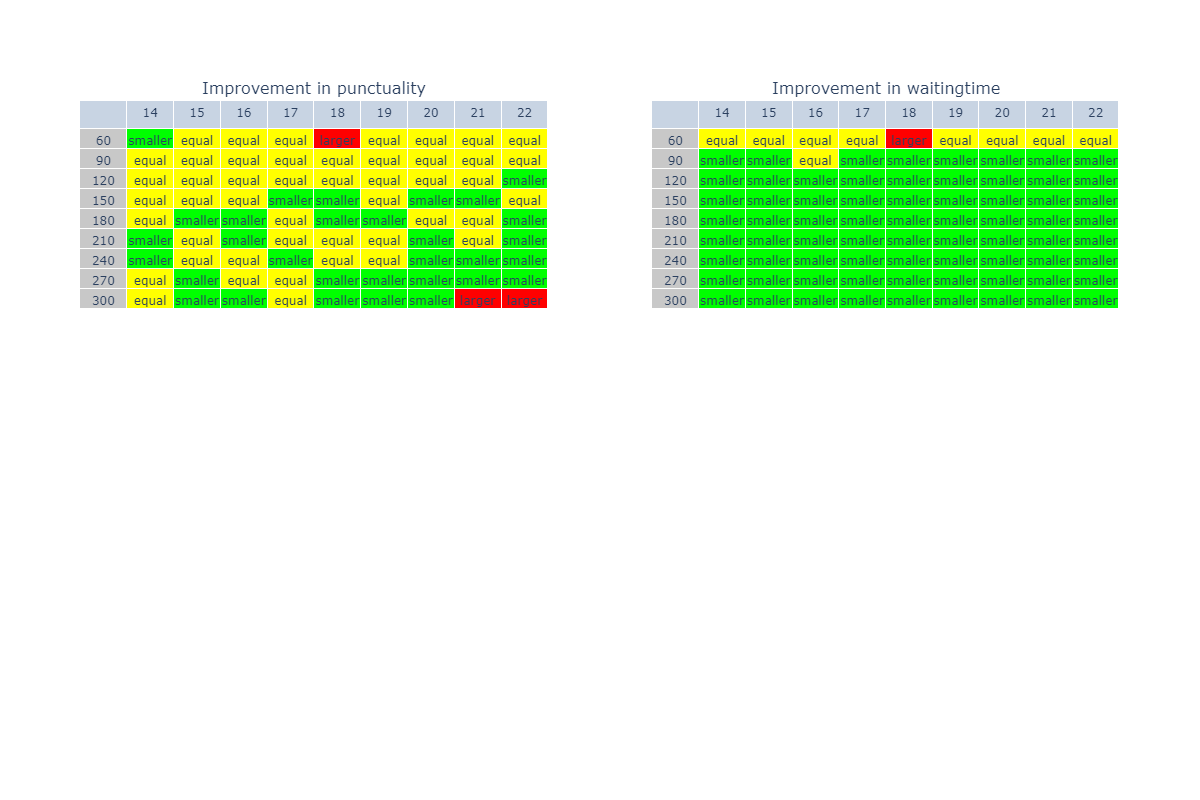
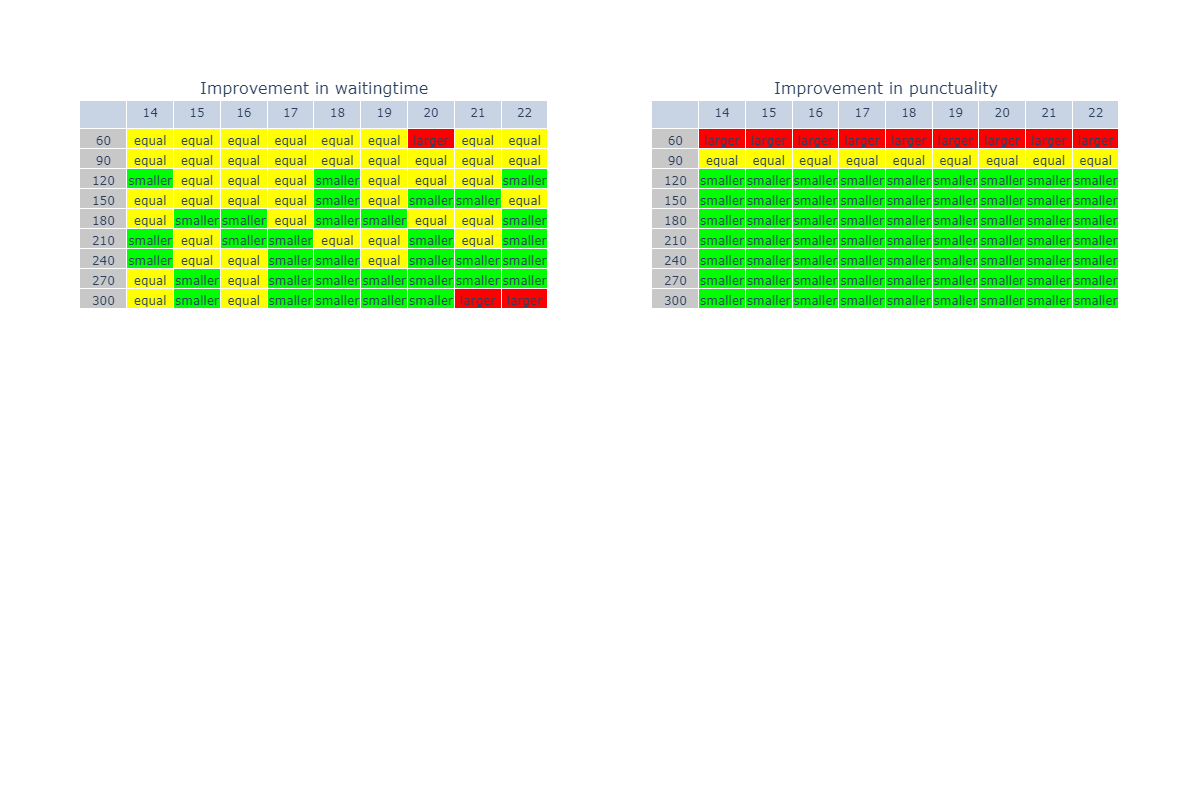
More tables

diff --git a/Python data analysis/research_question_.one.py b/Python data analysis/research_question_.one.py
@@ -70,51 +70,51 @@ for subdir, dirs, files in os.walk(target_folder):
         results_c0[idx][(f,uc,q)] = table.columns[columns[0][0]]
         results_c1[idx][(f,uc,q)] = table.columns[columns[1][0]]
 
-def t_test(a,b, alpha):
-    N, df = len(a), len(a) - 1
-    zipped = zip(a, b)
-    diff = list(map(lambda t: t[0] - t[1], zipped))
-    a_mean, b_mean, diff_mean = np.mean(a), np.mean(b), np.mean(diff)
-    a_std, b_std, diff_std = np.std(a), np.std(b), np.std(diff)
-    t_critical = st.t.ppf(1 - (alpha / 2), df)
-    stat = diff_std / np.sqrt(N)
-    value = t_critical * stat
-    interval = (diff_mean - value, diff_mean + value)
-    t_obs = diff_mean / stat
-    p_value = (1 - st.t.cdf(np.abs(t_obs), df=df)) * 2
-    return (interval, p_value < alpha)
+# def t_test(a,b, alpha):
+#     N, df = len(a), len(a) - 1
+#     zipped = zip(a, b)
+#     diff = list(map(lambda t: t[0] - t[1], zipped))
+#     a_mean, b_mean, diff_mean = np.mean(a), np.mean(b), np.mean(diff)
+#     a_std, b_std, diff_std = np.std(a), np.std(b), np.std(diff)
+#     t_critical = st.t.ppf(1 - (alpha / 2), df)
+#     stat = diff_std / np.sqrt(N)
+#     value = t_critical * stat
+#     interval = (diff_mean - value, diff_mean + value)
+#     t_obs = diff_mean / stat
+#     p_value = (1 - st.t.cdf(np.abs(t_obs), df=df)) * 2
+#     return (interval, p_value < alpha)
 
 
-table_c0 = table_array_for('f','q')
-table_c1 = table_array_for('f','q')
-colors_c0 = table_array_for('f','q')
-colors_c1 = table_array_for('f','q')
-col_dict = dict()
-col_dict["larger"] = 'rgb(255,0,0)'
-col_dict["equal"] = 'rgb(255,255,0)'
-col_dict["smaller"] = 'rgb(0,255,0)'
+# table_c0 = table_array_for('f','q')
+# table_c1 = table_array_for('f','q')
+# colors_c0 = table_array_for('f','q')
+# colors_c1 = table_array_for('f','q')
+# col_dict = dict()
+# col_dict["larger"] = 'rgb(255,0,0)'
+# col_dict["equal"] = 'rgb(255,255,0)'
+# col_dict["smaller"] = 'rgb(0,255,0)'
 
-for idx_f, f in enumerate(param['f']):
-    for idx_q, q in enumerate(param['q']):
-        table_c0[idx_f][idx_q] = stats_analyse.relation(t_test(results_c0[0][(f,True,q)],results_c0[0][(f,False,q)],0.05)[0])
-        table_c1[idx_f][idx_q] = stats_analyse.relation(t_test(results_c1[0][(f,True,q)],results_c1[0][(f,False,q)],0.05)[0])
-        colors_c0[idx_f][idx_q] = col_dict[table_c0[idx_f][idx_q]]
-        colors_c1[idx_f][idx_q] = col_dict[table_c1[idx_f][idx_q]]
+# for idx_f, f in enumerate(param['f']):
+#     for idx_q, q in enumerate(param['q']):
+#         table_c0[idx_f][idx_q] = stats_analyse.relation(t_test(results_c0[0][(f,True,q)],results_c0[0][(f,False,q)],0.05)[0])
+#         table_c1[idx_f][idx_q] = stats_analyse.relation(t_test(results_c1[0][(f,True,q)],results_c1[0][(f,False,q)],0.05)[0])
+#         colors_c0[idx_f][idx_q] = col_dict[table_c0[idx_f][idx_q]]
+#         colors_c1[idx_f][idx_q] = col_dict[table_c1[idx_f][idx_q]]
 
-t1= make_table('f','q',table_c0,colors_c0)
-t2= make_table('f','q',table_c1,colors_c1)
+# t1= make_table('f','q',table_c0,colors_c0)
+# t2= make_table('f','q',table_c1,colors_c1)
 
-fig = make_subplots(
-    rows=1, 
-    cols=2,
-    specs=[[{"type": "domain"}, {"type": "domain"}]],
-    subplot_titles=["Improvement in punctuality", "Improvement in waitingtime"])
+# fig = make_subplots(
+#     rows=1, 
+#     cols=2,
+#     specs=[[{"type": "domain"}, {"type": "domain"}]],
+#     subplot_titles=["Improvement in waitingtime", "Improvement in punctuality"])
 
-fig.add_trace(t1, row=1, col=1)
-fig.add_trace(t2, row=1, col=2)
+# fig.add_trace(t1, row=1, col=1)
+# fig.add_trace(t2, row=1, col=2)
 
-fig.update_layout(width=1200, height=800)
-fig.show()
+# fig.update_layout(width=1200, height=800)
+# fig.show()
 
 
 
@@ -123,47 +123,47 @@ fig.show()
 ###############################
 
 
-# def build_table(uc_switch, val_idx):
-#     table = table_array_for('f','q')
-#     for k,v in results[0].items():
-#         (f,uc,q) = k
-#         if (uc_switch and uc) or (not uc_switch and not uc) :
-#             table[param['f'].index(f)][param['q'].index(q)] = round(v[val_idx][1],2)
+def build_table(uc_switch, val_idx):
+    table = table_array_for('f','q')
+    for k,v in results[0].items():
+        (f,uc,q) = k
+        if (uc_switch and uc) or (not uc_switch and not uc) :
+            table[param['f'].index(f)][param['q'].index(q)] = round(v[val_idx][1],2)
 
-#     min_val = pow(2,31) - 1
-#     max_val = 0
-#     for row in table:
-#         if min(row) < min_val:
-#             min_val = min(row)
-#         if max(row) > max_val:
-#             max_val = max(row)
-#     diff = max_val-min_val
+    min_val = pow(2,31) - 1
+    max_val = 0
+    for row in table:
+        if min(row) < min_val:
+            min_val = min(row)
+        if max(row) > max_val:
+            max_val = max(row)
+    diff = max_val-min_val
 
-#     cs = n_colors('rgb(0, 255, 0)', 'rgb(255, 0, 0)', int(diff) +1, colortype='rgb')
-#     colors = []
-#     for row in table:
-#         c_row = []
-#         for cell in row:
-#             c_row.append(cs[int(cell-min_val)])
-#         colors.append(c_row)
+    cs = n_colors('rgb(0, 255, 0)', 'rgb(255, 0, 0)', int(diff) +1, colortype='rgb')
+    colors = []
+    for row in table:
+        c_row = []
+        for cell in row:
+            c_row.append(cs[int(cell-min_val)])
+        colors.append(c_row)
     
-#     return make_table('f','q',table,colors)
+    return make_table('f','q',table,colors)
 
-# names = []
-# for uc_switch in range(2):
-#     for v in range(2):
-#         names.append(f'UC Switch: {bool(uc_switch)} - {"Average Wait Time (s)" if v == 0 else "Punctuality"}')
+names = []
+for uc_switch in range(2):
+    for v in range(2):
+        names.append(f'UC Switch: {bool(uc_switch)} - {"Average Wait Time (s)" if v == 0 else "Punctuality"}')
 
-# fig = make_subplots(
-#     rows=2, 
-#     cols=2,
-#     specs=[[{"type": "domain"}, {"type": "domain"}],
-#            [{"type": "domain"}, {"type": "domain"}]],
-#     subplot_titles=names)
+fig = make_subplots(
+    rows=2, 
+    cols=2,
+    specs=[[{"type": "domain"}, {"type": "domain"}],
+           [{"type": "domain"}, {"type": "domain"}]],
+    subplot_titles=names)
 
-# for row in range(2):
-#     for column in range(2):
-#         fig.add_trace(build_table(row, column), row=row+1, col=column+1)
+for row in range(2):
+    for column in range(2):
+        fig.add_trace(build_table(row, column), row=row+1, col=column+1)
 
-# fig.update_layout(width=1200, height=800)
-# fig.show()
+fig.update_layout(width=1200, height=800)
+fig.show()
